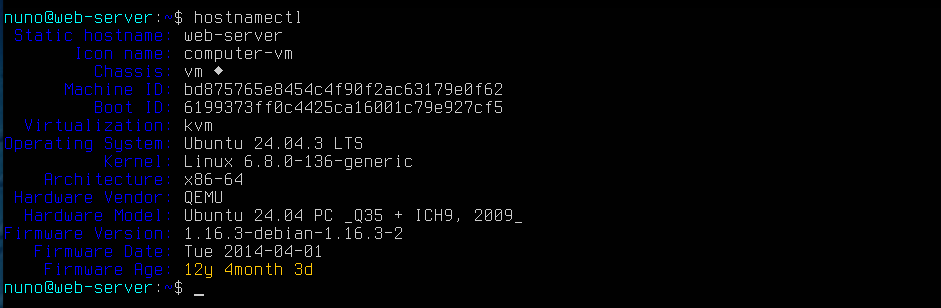
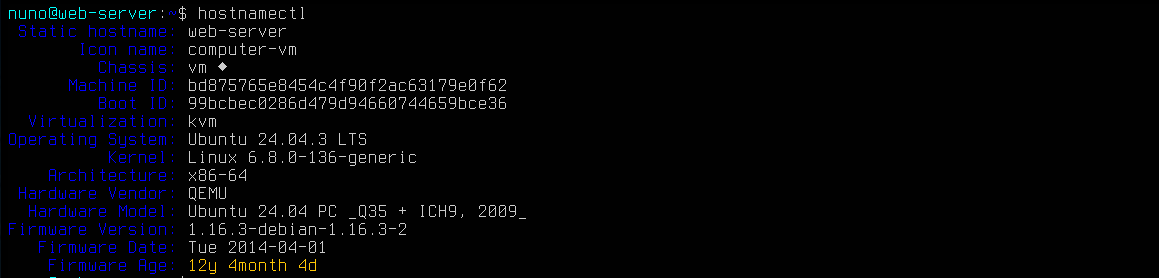
add captures

Changed region(s): [[0.0, 0.0, 0.5547, 1.0]]

diff --git a/README.md b/README.md
@@ -3,7 +3,7 @@
 ![Ubuntu](https://img.shields.io/badge/Ubuntu-24.04_LTS-E95420)
 ![Nginx](https://img.shields.io/badge/NGINX-latest-009639)
 ![License](https://img.shields.io/badge/License-MIT-blue)
-![Status](https://img.shields.io/badge/Status-In_Progress-yellow)
+![Status](https://img.shields.io/badge/Status-In_Progress...-yellow)
 
 This project involves the deployment and administration of a production-ready Linux web server, provisioned in a virtualized environment and designed for cloud deployment. The server represents part of the infrastructure for a web application.
 
@@ -24,14 +24,13 @@ Finally, the server is also tested against various failure scenarios, which are 
 ## Table of Contents
 
 1. [Methodology & Source Selection](#1-methodology--source-selection)
-2. [Requirements](#2-requirements)
+2. [Requirements of Web Server](#2-requirements-of-web-server)
 3. [Architecture & Design](#3-architecture--design)
-4. [Technical Decisions](#4-technical-decisions)
-5. [Phases of implementation](#5-phases-of-implementation)
-6. [Quick Start](#6-quick-start)
-7. [Troubleshooting & Controlled Failure Scenarios](#7-troubleshooting--controlled-failure-scenarios)
-8. [Lessons Learned](#8-lessons-learned)
-9. [Official References](#9-official-references)
+4. [Phases of implementation](#5-phases-of-implementation)
+5. [Quick Start](#6-quick-start)
+6. [Operations, Monitoring, Troubleshooting & Controlled Failure Scenarios](#6-operation-monitoring-troubleshooting--controlled-failure-scenarios)
+7. [Automation and Cloud Deployment](#7-automation-and-cloud-deployment)
+8. [Official References](#9-official-references)
 
 ---
 
@@ -52,7 +51,7 @@ This approach provides a base for defining the requierements necesary for an Web
 ---
 
 
-## 2. Requirements Web Server
+## 2. Requirements of Web Server
 
 As a result of the research described in the previous section, a set of system and network requirements was extracted from the selected security references. The complete requirement selected, including and their are available here:
 
@@ -113,7 +112,7 @@ This section records the principal decisions and their technical justification.
 
 ## 4. Implementation Phases
 
-### 1. Operating System Installation
+### Operating System Installation
 
 The web server was deployed on a Linux virtual machine with the following specifications:
 
@@ -134,18 +133,80 @@ The remaining disk space was assigned to an LVM physical volume. LVM was used to
 ![lsblk main comand.png](screenshots/lsblk-main-comand.png)
 
 
+### Base System Configuration
 
-### 2. Base System Administration and Access Control
+The objetive of this parte phase is...................  
 
-### 3. Network Configuration
+**1. Package update and package-management validation.**
+Before starting to install any services, it is advisable to update packeges using the Advanced Package Tool (APT). The utility used is:
 
-### 4. Remote Administration and Server Hardening
+```bash
+sudo apt-get update && sudo apt-get upgrade
+```
 
-### 5. Web Service Deployment and TLS
+The folloing command is used to check for the new updates; in this case, 4 updates are pending.
 
-### 6. Operations, Monitoring and Recovery
+![List packets](screenshots/list-packets.png)
 
-### 7. Automation and Cloud Deployment
+Fix these conflicts by running `sudo apt-get dist-upgrade` Checking again:
+
+![list upgradable](screenshots/list-upgradable.png)
+
+
+**2. System identity, timezone and locale configuration**
+
+In this step the time zone is configured. Even though that configuration it may seem little useful, however, taht configuration it is of the greate importance
+
+| User | Gropup |                                    |          |
+| ---- | ------------------ | ---------------------------------- | -------------- |
+| admin     |                    |                                    |                |
+
+
+En este paso se configurar la zona horaria. A pesar de que esta configuración pueda parecer poco util, en realidad es de gran importancia para la seguridad y auditoria. Por una parte, los logs dependen de que las marcas de tiempo sean precisas y por otra parte, proporciona consistencia en los servicios y protocolos de red. 
+
+The command used to list the complete horarie zone and for change the correct region are:
+
+```bash
+timedatectl list-timezones
+```
+The command used to set up the region is:
+
+```bash
+timedatectl set-timezone Europe/Madrid
+```
+Checking the correct
+
+![timedatectl-locale-a](screenshots/timedatectl-locale-a2.png)
+
+**3. Account defaults and role design.**
+Revisar /etc/login.defs y /etc/skel. Definir los roles de administrador, desarrollador y operador. 107.1
+
+se describe principalmente el sistema de permisos estándar de Linux, que es un tipo de Control de Acceso Discrecional (DAC). En este modelo, cada archivo tiene un propietario y un grupo, y es el propietario quien decide qué permisos (lectura, escritura, ejecución) otorga a los demás.
+
+
+
+
+**4. User, group and credential management.**
+Crear usuarios y grupos, asignar shell, directorios personales y pertenencia a grupos. Gestionar contraseñas, caducidad, bloqueo y desbloqueo. 107.1
+
+**5. Sudo privilege delegation and filesystem permissions.**
+Delegar privilegios con sudo y /etc/sudoers.d/. Crear directorios compartidos y aplicar chown, chgrp, chmod, umask y SGID. 110.1, 104.5
+
+**6. Systemd service review and final validation.**
+Revisar el target y los servicios habilitados con systemctl. Validar usuarios, grupos, permisos, sudo, hora, locale y servicios. 101.3
+
+
+### Network Configuration
+
+
+
+### Remote Administration and Server Hardening
+
+
+
+### Web Service Deployment and TLS
+
+
 
 ---
 
@@ -157,7 +218,7 @@ The remaining disk space was assigned to an LVM physical volume. LVM was used to
 ---
 
 
-## 7. Troubleshooting & Controlled Failure Scenarios
+## 6. Operation, Monitoring, Troubleshooting & Controlled Failure Scenarios
 
 This section contains only incidents that actually occurred during the implementation and validation of the server.
 
@@ -172,7 +233,14 @@ Detailed troubleshooting records:
 ---
 
 
-## 7. Official References
+### 7. Automation and Cloud Deployment
+
+
+
+---
+
+
+## 8. Official References
 
 - IT-Grundschutz Compendium of the 2022 edition: 
 https://www.bsi.bund.de/SharedDocs/Downloads/EN/BSI/Grundschutz/Internationa?__blob=publicationFile&v=2 
@@ -205,6 +273,9 @@ https://www.openssh.org/manual.html
 - OWASP TLS guidance.
 
 - OWASP HTTP Security Response Headers guidance.
+
+- Ubuntu installation documentation. Creating autoinstall configuration: 
+https://canonical-subiquity.readthedocs-hosted.com/en/latest/tutorial/creating-autoinstall-configuration.html?utm_source=chatgpt.com
 
 
 
